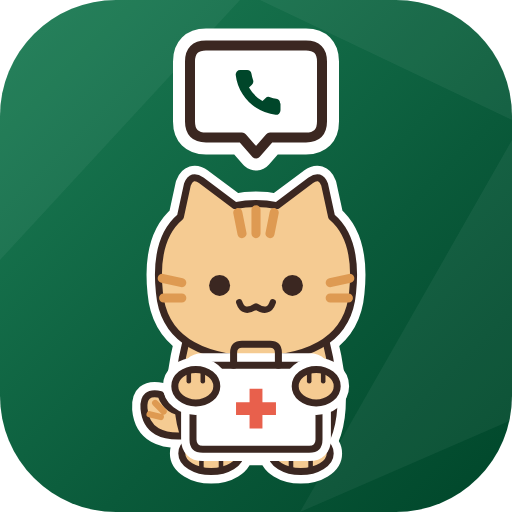
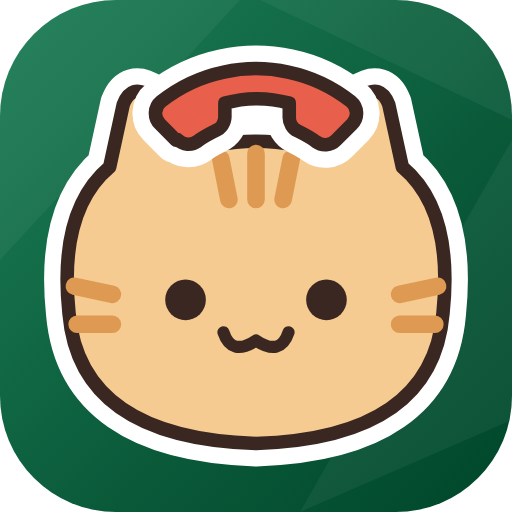
앱 마크 교체 (고양이 얼굴 + 수화기)

diff --git a/sw.js b/sw.js
@@ -1,5 +1,5 @@
 /* 전담 콜북 — 오프라인 캐시. 앱 파일을 바꾸면 VERSION을 올리세요. */
-const VERSION = 'callbook-v20';
+const VERSION = 'callbook-v21';
 const FONT_HOSTS = ['cdn.jsdelivr.net', 'fonts.googleapis.com', 'fonts.gstatic.com'];
 const SHELL = ['./', 'index.html', 'engine.js', 'app.js', 'xlsxw.js', 'admin.js', 'manifest.webmanifest', 'icons/icon-192.png', 'icons/icon-512.png', 'icons/logo.svg'];
 self.addEventListener('install', e => { e.waitUntil(caches.open(VERSION).then(c => c.addAll(SHELL)).then(() => self.skipWaiting())); });
